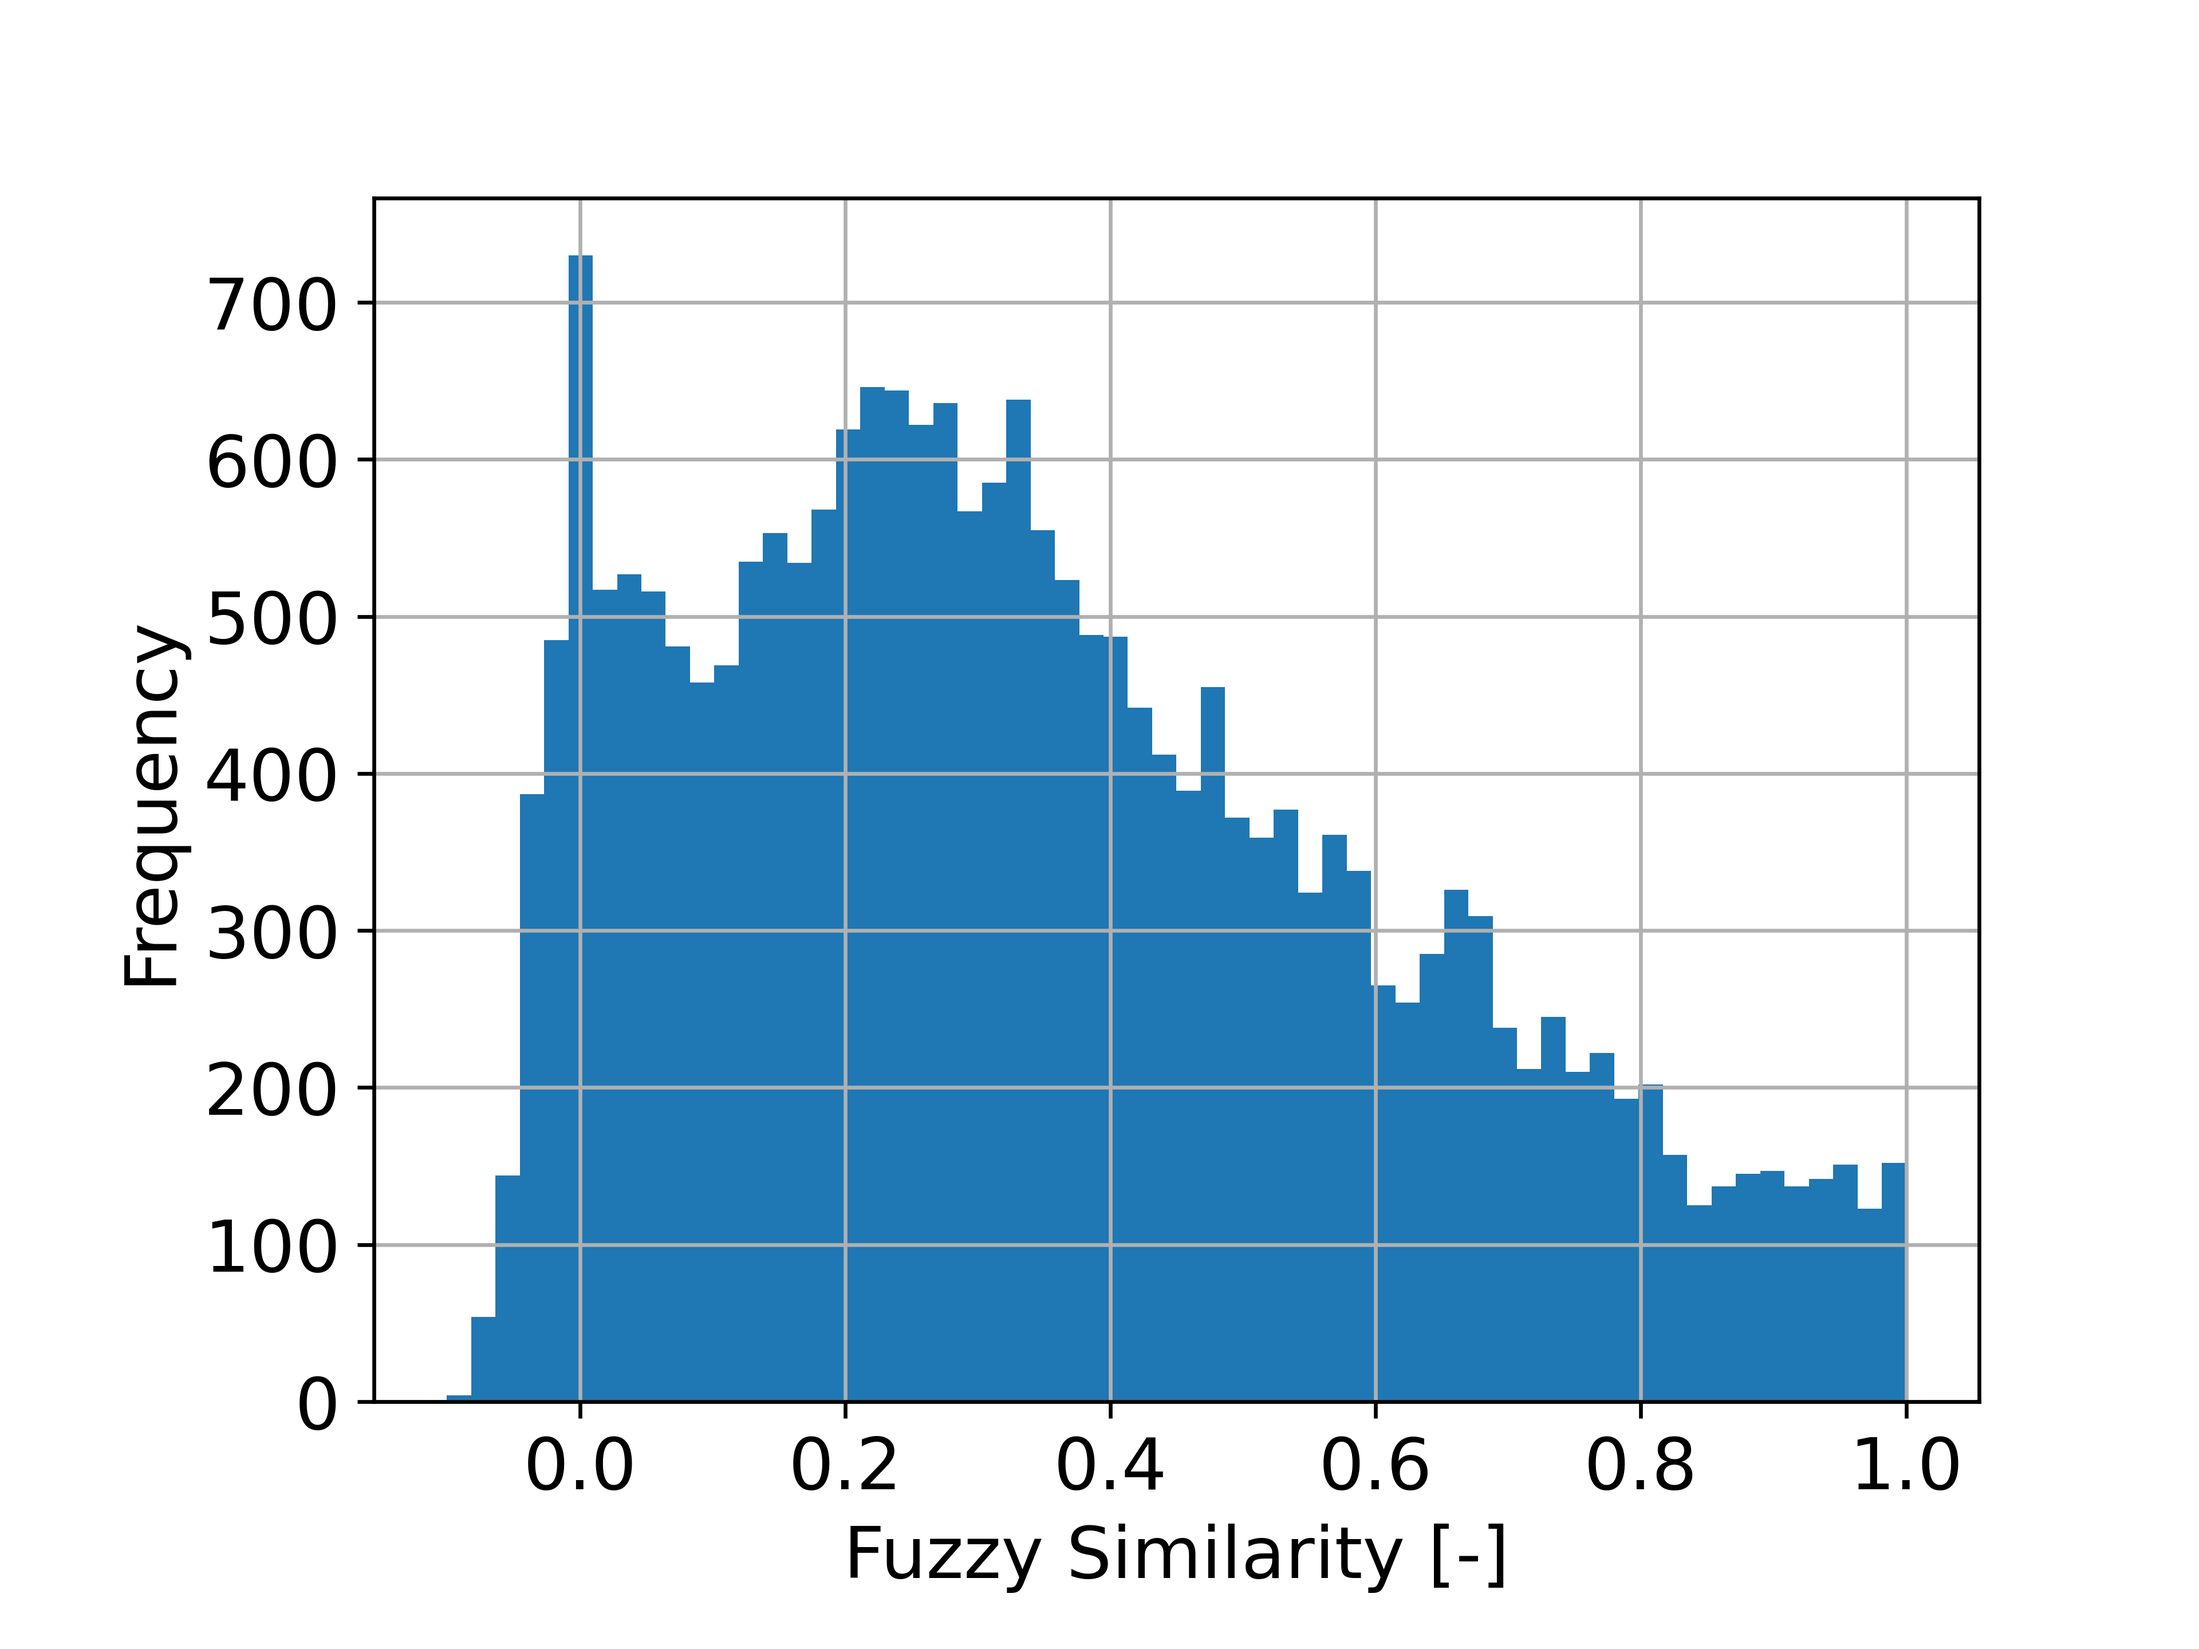
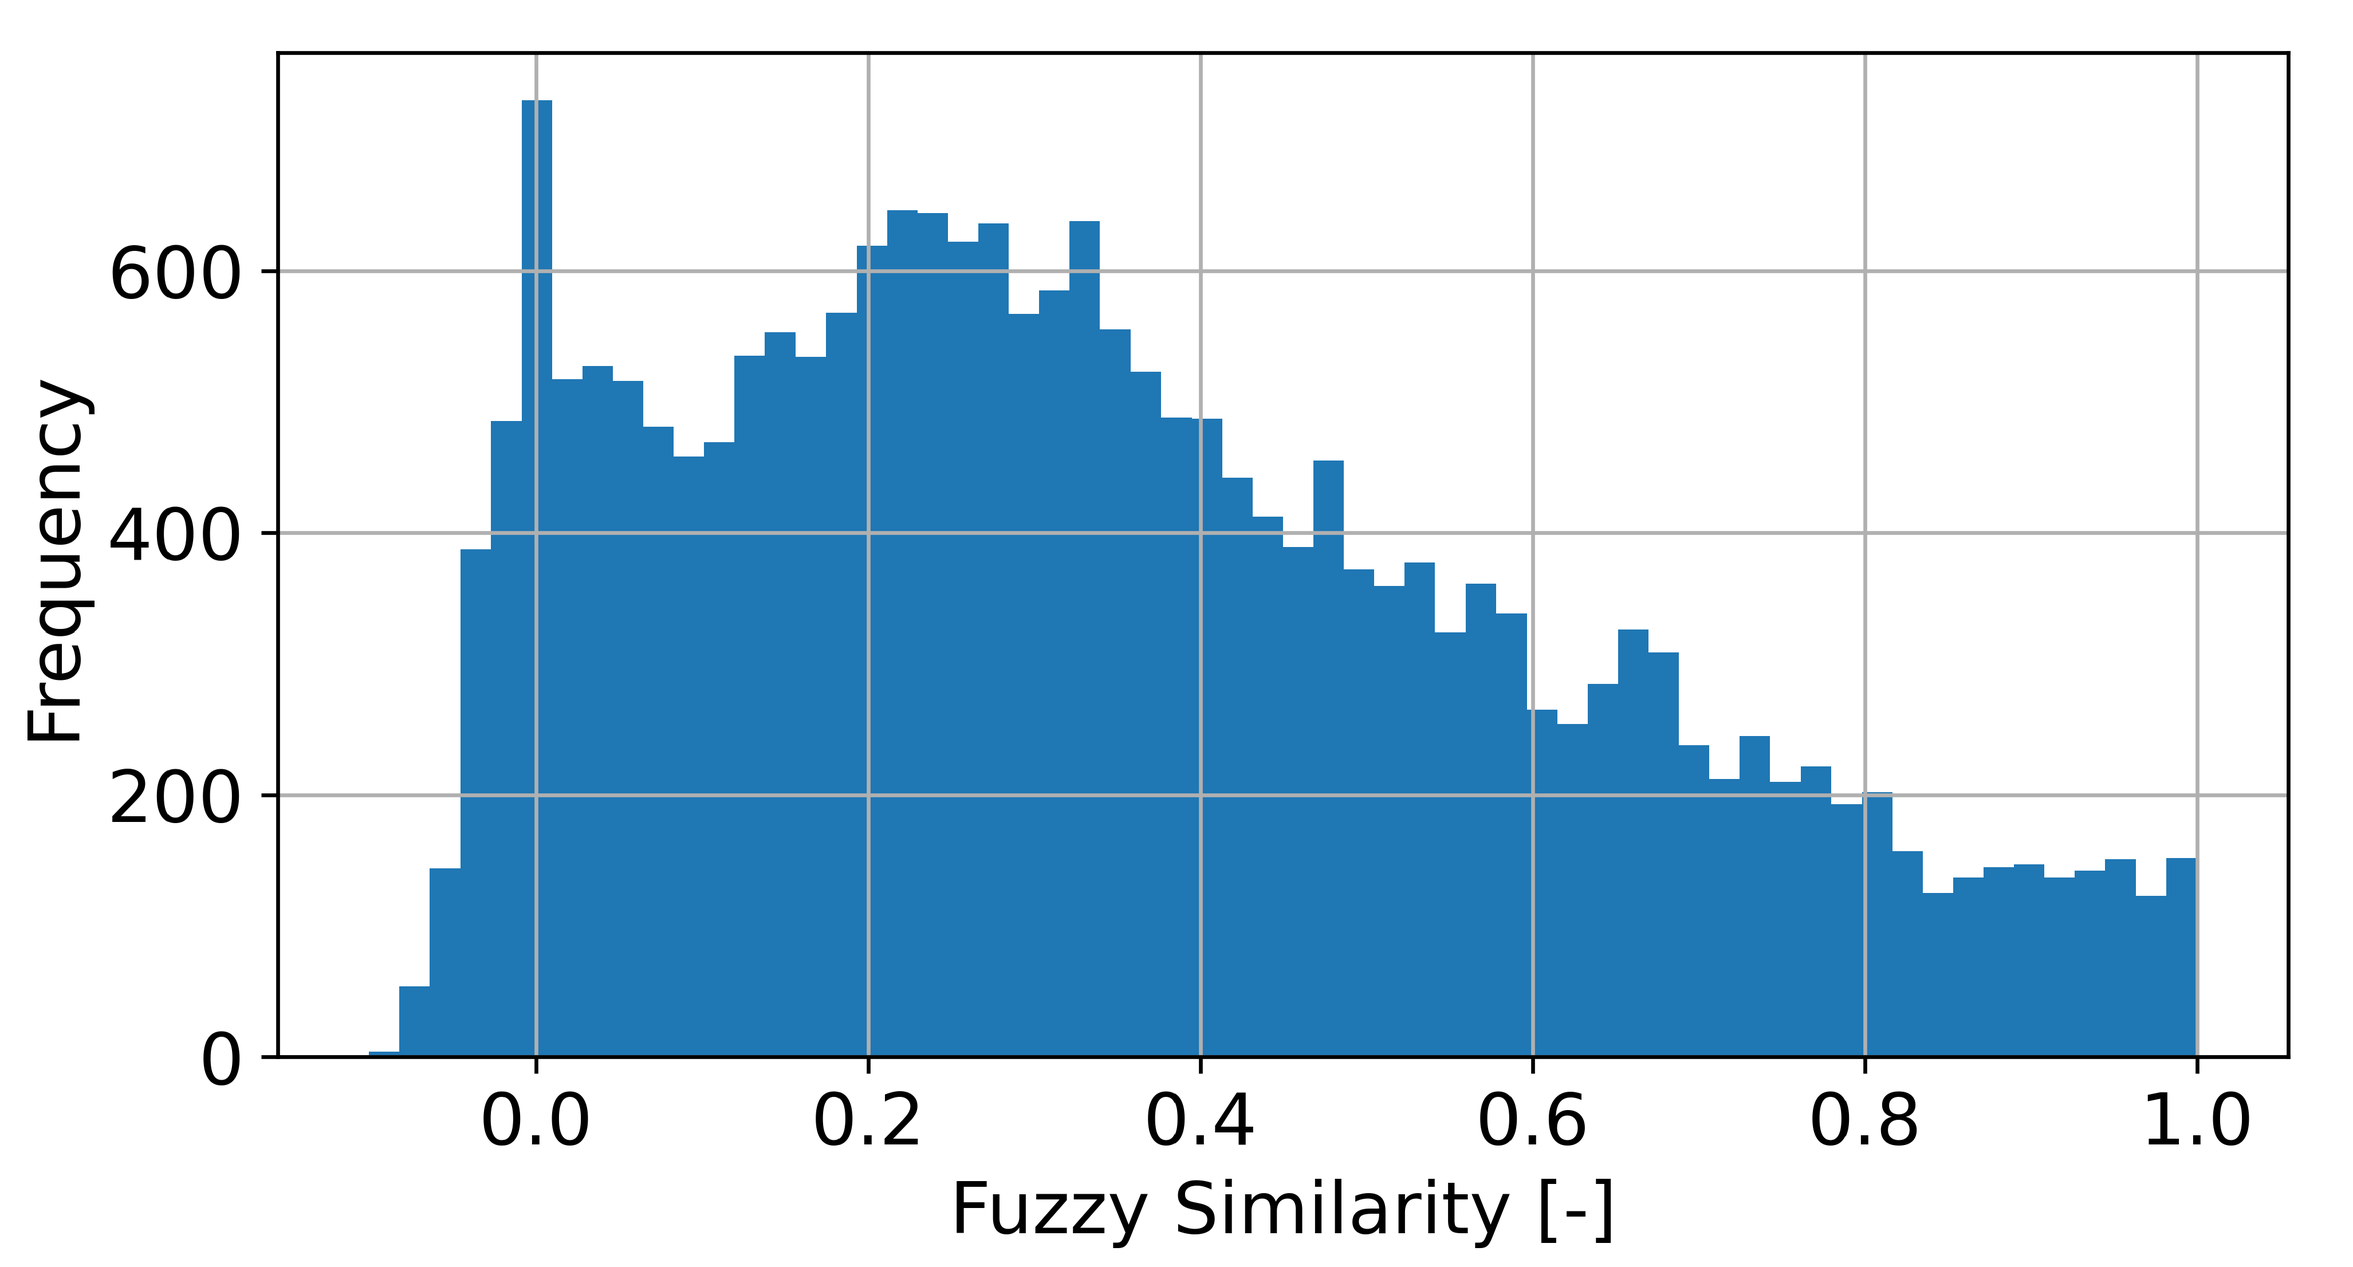
tweaked to plot salzach comp maps

diff --git a/plotter.py b/plotter.py
@@ -20,9 +20,10 @@ class RasterDataPlotter:
         return raster_np
 
     def make_hist(self, legendx, legendy, fontsize, outputpath):
+
         plt.rcParams.update({'font.size': fontsize})
         raster_np = self.read_raster()
-        fig, ax = plt.subplots()
+        fig, ax = plt.subplots(figsize=(8, 4))
         ax.hist(raster_np[~raster_np.mask], bins=60)
         np.savetxt('trial.csv', raster_np[~raster_np.mask], delimiter=',')
         plt.xlabel(legendx)
